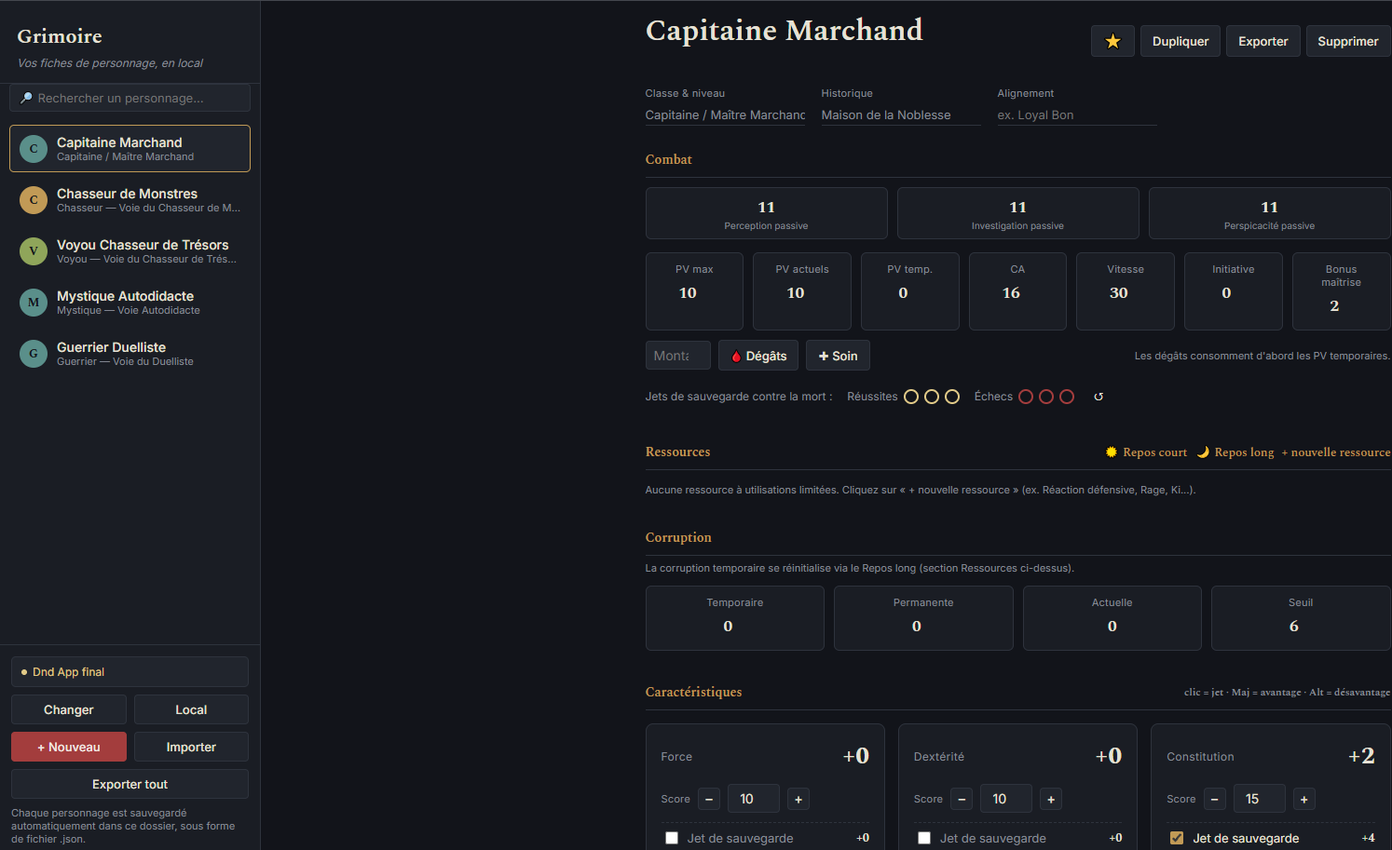
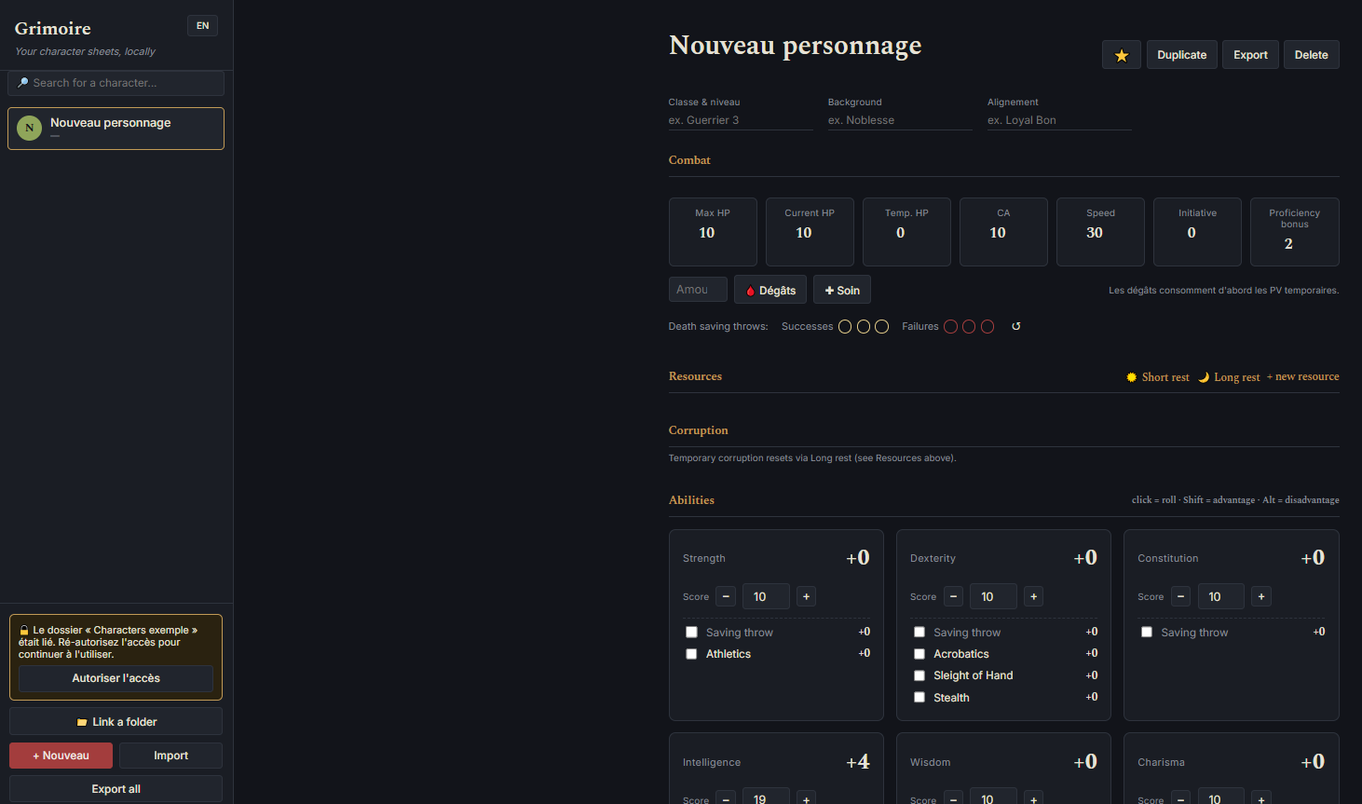
en/fr

diff --git a/Grimoire.html b/Grimoire.html
@@ -50,8 +50,10 @@
   #sidebar{ width:280px; flex:none; background:var(--surface); border-right:1px solid var(--border);
     display:flex; flex-direction:column; height:100vh; position:sticky; top:0; }
   #sidebar-header{ padding:22px 18px 14px; border-bottom:1px solid var(--border); }
+  .sidebar-title-row{ display:flex; align-items:flex-start; justify-content:space-between; gap:10px; }
   #sidebar-header h1{ margin:0; font-size:22px; font-weight:600; }
   #sidebar-header p{ margin:4px 0 0; font-size:12px; color:var(--text-muted); font-style:italic; }
+  #lang-toggle{ flex:none; padding:5px 8px; font-size:11px; min-width:36px; }
   #char-list{ flex:1; overflow-y:auto; padding:10px; }
   #char-search{ margin:0 10px 4px; width:calc(100% - 20px); font-size:13px; }
   .char-item{ padding:9px 10px; border-radius:5px; margin-bottom:4px; cursor:pointer; border:1px solid transparent;
@@ -232,8 +234,7 @@
 
 <div id="sidebar">
   <div id="sidebar-header">
-    <h1>Grimoire</h1>
-    <p>Vos fiches de personnage, en local</p>
+    <div class="sidebar-title-row"><div><h1>Grimoire</h1><p>Vos fiches de personnage, en local</p></div><button id="lang-toggle" type="button" title="Changer de langue">EN</button></div>
   </div>
   <input id="char-search" type="text" placeholder="🔎 Rechercher un personnage...">
   <div id="char-list"></div>
@@ -273,6 +274,204 @@ const SKILLS = {
 const EMOJIS = ['⚔','🛡','🏹','🗡','🔥','❄','⚡','☠','💀','🐉','🧙','🧝','🧛','🧟','🎯','💰','📜','🧪','🔮','✨','🩸','👁','🤝','🏰','👑','🎭','🐍','🦴','🌙','⭐','🕯','🗝'];
 
 /* ---------------------------------------------------------------------
+   Internationalisation — FR / EN
+   Le changement de langue ne modifie jamais les données des personnages.
+--------------------------------------------------------------------- */
+const LANG_KEY = 'grimoire-language';
+let currentLanguage = localStorage.getItem(LANG_KEY) || 'fr';
+if (currentLanguage !== 'fr' && currentLanguage !== 'en') currentLanguage = 'fr';
+
+const I18N = {
+  fr: {
+    languageButton:'EN', languageTitle:'Passer en anglais',
+    subtitle:'Vos fiches de personnage, en local', search:'🔎 Rechercher un personnage...',
+    empty:'Aucun personnage.', emptyFolder:'Aucun personnage dans ce dossier.', noResults:q => `Aucun résultat pour « ${q} ».`,
+    clickNew:'Cliquez sur « + Nouveau ».', noSelection:'Aucune fiche sélectionnée', noSelectionText:'Créez un nouveau personnage, importez un JSON, ou liez le dossier où se trouvent déjà vos fiches.',
+    newCharacter:'Nouveau personnage', duplicate:'Dupliquer', export:'Exporter', delete:'Supprimer', import:'Importer', exportAll:'Exporter tout',
+    change:'Changer', local:'Local', linkFolder:'📁 Lier un dossier', authorize:'Autoriser l’accès', chooseFolder:'Choisir ce dossier', noThanks:'Non merci',
+    folderHint:'Chaque personnage est sauvegardé automatiquement dans ce dossier, sous forme de fichier .json.',
+    localHint:'Tout reste dans ce navigateur. Exportez en JSON pour garder une copie, ou liez un dossier (Chrome/Edge) pour une sauvegarde automatique sur disque.',
+    onboardTitle:'📁 Faire de Grimoire un dossier autonome ?',
+    onboardText:'Choisissez le dossier où se trouve ce fichier Grimoire.html : l’app y lira et y sauvegardera vos personnages toute seule, à chaque ouverture.',
+    combat:'Combat', maxHp:'PV max', currentHp:'PV actuels', tempHp:'PV temp.', ac:'CA', speed:'Vitesse', initiative:'Initiative', proficiency:'Bonus maîtrise', amount:'Montant', damage:'Dégâts', heal:'Soin',
+    damageHint:'Les dégâts consomment d’abord les PV temporaires.', deathSaves:'Jets de sauvegarde contre la mort :', successes:'Réussites', failures:'Échecs', reset:'Réinitialiser',
+    resources:'Ressources', shortRest:'☀ Repos court', longRest:'🌙 Repos long', newResource:'+ nouvelle ressource', shortRestTitle:"Réinitialise les ressources en 'Repos court'", longRestTitle:"Réinitialise la corruption temporaire et les ressources en 'Repos long'",
+    corruption:'Corruption', corruptionHint:'La corruption temporaire se réinitialise via le Repos long (section Ressources ci-dessus).', temporary:'Temporaire', permanent:'Permanente', current:'Actuelle', threshold:'Seuil',
+    abilities:'Caractéristiques', abilitiesHint:'clic = jet · Maj = avantage · Alt = désavantage', score:'Score', savingThrow:'Jet de sauvegarde',
+    weapons:'Armes', addWeapon:'+ ajouter une arme', name:'Nom', toHit:'Au toucher', damageBonus:'+ Dégâts', roll:'Jet',
+    equipment:'Équipement', equipmentPlaceholder:'Une chose par ligne...', otherProficiencies:'Autres maîtrises', otherPlaceholder:'Armures, armes, outils, langues, jets de sauvegarde, compétences...',
+    spellcasting:'🔮 Incantation', spellcaster:'Ce personnage lance des sorts', spellcastingStat:'Caractéristique', saveDc:'DD de sauvegarde', spellAttack:'Attaque de sort', corruptionCalc:'Seuil corruption (calc.)', applyThreshold:'↳ Appliquer ce seuil à la Corruption', spellHint:'Cochez la case ci-dessus pour afficher les statistiques d’incantation et la liste de sorts.',
+    spells:'Sorts', newSpell:'+ nouveau sort', noSpells:'Aucun sort. Cliquez sur « + nouveau sort ».', spellName:'Nom du sort', level:'Niveau', castingTime:"Temps d'incantation", range:'Portée', duration:'Durée', cost:'Coût (Corruption)', damageExample:'Dégâts (ex. 1d4) — laisser vide si aucun', spellDescription:'Description, effets, mise à l’échelle par niveau...',
+    features:'Capacités', newFeature:'+ nouvelle capacité', noFeatures:'Aucune capacité. Cliquez sur « + nouvelle capacité ».', featureName:'Nom de la capacité', category:'Catégorie', description:'Description...',
+    notes:'Notes', notesPlaceholder:'Tout ce qui ne rentre pas ailleurs...',
+    noWeapons:'Aucune arme. Cliquez sur « + ajouter une arme ».', noResources:'Aucune ressource à utilisations limitées. Cliquez sur « + nouvelle ressource » (ex. Réaction défensive, Rage, Ki...).',
+    resourceName:'Nom (ex. Réaction défensive)', use:'Utiliser', recover:'Récupérer', setMax:'Réglez un maximum ci-dessous pour afficher les jetons.', max:'Max', recharge:'Recharge (ex. Repos long)', formula:'Formule (ex. 2d4 + 2)', rollFormula:'Lancer la formule',
+    recentRolls:'Jets récents', clear:'Effacer', noDamageFormula:'aucune formule de dégâts', invalidFormula:'formule invalide',
+    modified:'Modifié — sauvegarde en cours…', savedDisk:'Enregistré sur disque à', saved:'Enregistré à',
+    deleteConfirm:name => `Supprimer « ${name} » ? Cette action est irréversible.`, invalidJson:"Impossible de lire ce fichier : ce n'est pas un JSON valide de Grimoire.", folderUnsupported:'Lier un dossier fonctionne dans Chrome ou Edge. Utilisez Importer / Exporter en attendant.',
+    ability:{str:'Force',dex:'Dextérité',con:'Constitution',int:'Intelligence',wis:'Sagesse',cha:'Charisme'},
+    skill:{athletics:'Athlétisme',acrobatics:'Acrobaties',sleightOfHand:'Escamotage',stealth:'Discrétion',arcana:'Arcanes',history:'Histoire',investigation:'Investigation',nature:'Nature',religion:'Religion',animalHandling:'Dressage',insight:'Perspicacité',medicine:'Médecine',perception:'Perception',survival:'Survie',deception:'Tromperie',intimidation:'Intimidation',performance:'Représentation',persuasion:'Persuasion'}
+  },
+  en: {
+    languageButton:'FR', languageTitle:'Passer en français',
+    subtitle:'Your character sheets, locally', search:'🔎 Search for a character...',
+    empty:'No characters.', emptyFolder:'No characters in this folder.', noResults:q => `No results for “${q}”.`,
+    clickNew:'Click « + New ».', noSelection:'No character selected', noSelectionText:'Create a new character, import a JSON, or link the folder where your existing sheets are stored.',
+    newCharacter:'New character', duplicate:'Duplicate', export:'Export', delete:'Delete', import:'Import', exportAll:'Export all',
+    change:'Change', local:'Local', linkFolder:'📁 Link a folder', authorize:'Allow access', chooseFolder:'Choose this folder', noThanks:'No thanks',
+    folderHint:'Each character is automatically saved in this folder as a .json file.',
+    localHint:'Everything stays in this browser. Export JSON to keep a copy, or link a folder (Chrome/Edge) for automatic disk backups.',
+    onboardTitle:'📁 Make Grimoire a standalone folder?',
+    onboardText:'Choose the folder containing this Grimoire.html file: the app will read and save your characters there automatically each time it opens.',
+    combat:'Combat', maxHp:'Max HP', currentHp:'Current HP', tempHp:'Temp. HP', ac:'AC', speed:'Speed', initiative:'Initiative', proficiency:'Proficiency bonus', amount:'Amount', damage:'Damage', heal:'Heal',
+    damageHint:'Damage is applied to temporary HP first.', deathSaves:'Death saving throws:', successes:'Successes', failures:'Failures', reset:'Reset',
+    resources:'Resources', shortRest:'☀ Short rest', longRest:'🌙 Long rest', newResource:'+ new resource', shortRestTitle:"Resets resources on 'Short rest'", longRestTitle:"Resets temporary corruption and resources on 'Long rest'",
+    corruption:'Corruption', corruptionHint:'Temporary corruption resets via Long rest (see Resources above).', temporary:'Temporary', permanent:'Permanent', current:'Current', threshold:'Threshold',
+    abilities:'Abilities', abilitiesHint:'click = roll · Shift = advantage · Alt = disadvantage', score:'Score', savingThrow:'Saving throw',
+    weapons:'Weapons', addWeapon:'+ add weapon', name:'Name', toHit:'To hit', damageBonus:'+ Damage', roll:'Roll',
+    equipment:'Equipment', equipmentPlaceholder:'One item per line...', otherProficiencies:'Other proficiencies', otherPlaceholder:'Armor, weapons, tools, languages, saving throws, skills...',
+    spellcasting:'🔮 Spellcasting', spellcaster:'This character casts spells', spellcastingStat:'Ability', saveDc:'Save DC', spellAttack:'Spell attack', corruptionCalc:'Corruption threshold (calc.)', applyThreshold:'↳ Apply this threshold to Corruption', spellHint:'Check the box above to display spellcasting stats and the spell list.',
+    spells:'Spells', newSpell:'+ new spell', noSpells:'No spells. Click « + new spell ».', spellName:'Spell name', level:'Level', castingTime:'Casting time', range:'Range', duration:'Duration', cost:'Cost (Corruption)', damageExample:'Damage (e.g. 1d4) — leave blank if none', spellDescription:'Description, effects, scaling by level...',
+    features:'Features', newFeature:'+ new feature', noFeatures:'No features. Click « + new feature ».', featureName:'Feature name', category:'Category', description:'Description...',
+    notes:'Notes', notesPlaceholder:'Anything that does not fit elsewhere...',
+    noWeapons:'No weapons. Click « + add weapon ».', noResources:'No limited-use resources. Click « + new resource » (e.g. Defensive reaction, Rage, Ki...).',
+    resourceName:'Name (e.g. Defensive reaction)', use:'Use', recover:'Recover', setMax:'Set a maximum below to display the tokens.', max:'Max', recharge:'Recharge (e.g. Long rest)', formula:'Formula (e.g. 2d4 + 2)', rollFormula:'Roll formula',
+    recentRolls:'Recent rolls', clear:'Clear', noDamageFormula:'no damage formula', invalidFormula:'invalid formula',
+    modified:'Modified — saving…', savedDisk:'Saved to disk at', saved:'Saved at',
+    deleteConfirm:name => `Delete “${name}”? This action cannot be undone.`, invalidJson:"Unable to read this file: it is not a valid Grimoire JSON file.", folderUnsupported:'Folder linking works in Chrome or Edge. Use Import / Export for now.',
+    ability:{str:'Strength',dex:'Dexterity',con:'Constitution',int:'Intelligence',wis:'Wisdom',cha:'Charisma'},
+    skill:{athletics:'Athletics',acrobatics:'Acrobatics',sleightOfHand:'Sleight of Hand',stealth:'Stealth',arcana:'Arcana',history:'History',investigation:'Investigation',nature:'Nature',religion:'Religion',animalHandling:'Animal Handling',insight:'Insight',medicine:'Medicine',perception:'Perception',survival:'Survival',deception:'Deception',intimidation:'Intimidation',performance:'Performance',persuasion:'Persuasion'}
+  }
+};
+
+function ui(key, ...args){
+  const value = I18N[currentLanguage][key];
+  return typeof value === 'function' ? value(...args) : (value ?? key);
+}
+function tAbility(key){ return I18N[currentLanguage].ability[key] || ABILITY_LABELS[key]; }
+function tSkill(key){ return I18N[currentLanguage].skill[key] || key; }
+function setLanguage(lang){
+  if (lang !== 'fr' && lang !== 'en') return;
+  // Force any focused field to commit its latest value before re-rendering.
+  if (document.activeElement && typeof document.activeElement.blur === 'function') document.activeElement.blur();
+  flushPendingSaves();
+  currentLanguage = lang;
+  localStorage.setItem(LANG_KEY, currentLanguage);
+  document.documentElement.lang = currentLanguage;
+  renderAll();
+  updateLanguageButton();
+}
+function toggleLanguage(){ setLanguage(currentLanguage === 'fr' ? 'en' : 'fr'); }
+function updateLanguageButton(){
+  const btn = document.getElementById('lang-toggle');
+  if (!btn) return;
+  btn.textContent = ui('languageButton');
+  btn.title = ui('languageTitle');
+}
+
+// Translate rendered UI without touching user-entered character data.
+const UI_TEXT_PAIRS = [
+  ['Vos fiches de personnage, en local','Your character sheets, locally'],['🔎 Rechercher un personnage...','🔎 Search for a character...'],
+  ['Aucune fiche sélectionnée','No character selected'],['Créez un nouveau personnage, importez un JSON, ou liez le dossier où se trouvent déjà vos fiches.','Create a new character, import a JSON, or link the folder where your existing sheets are stored.'],
+  ['Dupliquer','Duplicate'],['Exporter','Export'],['Supprimer','Delete'],['Importer','Import'],['Exporter tout','Export all'],['Changer','Change'],['Local','Local'],['📁 Lier un dossier','📁 Link a folder'],['Autoriser l’accès','Allow access'],['Choisir ce dossier','Choose this folder'],['Non merci','No thanks'],
+  ['Chaque personnage est sauvegardé automatiquement dans ce dossier, sous forme de fichier .json.','Each character is automatically saved in this folder as a .json file.'],['Tout reste dans ce navigateur. Exportez en JSON pour garder une copie, ou liez un dossier (Chrome/Edge) pour une sauvegarde automatique sur disque.','Everything stays in this browser. Export JSON to keep a copy, or link a folder (Chrome/Edge) for automatic disk backups.'],
+  ['📁 Faire de Grimoire un dossier autonome ?','📁 Make Grimoire a standalone folder?'],['Choisissez le dossier où se trouve ce fichier Grimoire.html : l\'app y lira et y sauvegardera vos personnages toute seule, à chaque ouverture.','Choose the folder containing this Grimoire.html file: the app will read and save your characters there automatically each time it opens.'],
+  ['Combat','Combat'],['PV max','Max HP'],['PV actuels','Current HP'],['PV temp.','Temp. HP'],['Vitesse','Speed'],['Bonus maîtrise','Proficiency bonus'],['Montant','Amount'],['Dégâts','Damage'],['Soin','Heal'],['Les dégâts consomment d’abord les PV temporaires.','Damage is applied to temporary HP first.'],['Jets de sauvegarde contre la mort :','Death saving throws:'],['Réussites','Successes'],['Échecs','Failures'],['Réinitialiser','Reset'],
+  ['Ressources','Resources'],['☀ Repos court','☀ Short rest'],['🌙 Repos long','🌙 Long rest'],['+ nouvelle ressource','+ new resource'],['Corruption','Corruption'],['La corruption temporaire se réinitialise via le Repos long (section Ressources ci-dessus).','Temporary corruption resets via Long rest (see Resources above).'],['Temporaire','Temporary'],['Permanente','Permanent'],['Actuelle','Current'],['Seuil','Threshold'],
+  ['Caractéristiques','Abilities'],['clic = jet · Maj = avantage · Alt = désavantage','click = roll · Shift = advantage · Alt = disadvantage'],['Score','Score'],['Jet de sauvegarde','Saving throw'],
+  ['Armes','Weapons'],['+ ajouter une arme','+ add weapon'],['Nom','Name'],['Au toucher','To hit'],['+ Dégâts','+ Damage'],['Jet','Roll'],['Équipement','Equipment'],['Une chose par ligne...','One item per line...'],['Autres maîtrises','Other proficiencies'],['Armures, armes, outils, langues, jets de sauvegarde, compétences...','Armor, weapons, tools, languages, saving throws, skills...'],
+  ['🔮 Incantation','🔮 Spellcasting'],['Ce personnage lance des sorts','This character casts spells'],['Caractéristique','Ability'],['DD de sauvegarde','Save DC'],['Attaque de sort','Spell attack'],['Seuil corruption (calc.)','Corruption threshold (calc.)'],['↳ Appliquer ce seuil à la Corruption','↳ Apply this threshold to Corruption'],['Cochez la case ci-dessus pour afficher les statistiques d’incantation et la liste de sorts.','Check the box above to display spellcasting stats and the spell list.'],
+  ['Sorts','Spells'],['+ nouveau sort','+ new spell'],['Aucun sort. Cliquez sur « + nouveau sort ».','No spells. Click « + new spell ».'],['Nom du sort','Spell name'],['Niveau','Level'],["Temps d'incantation",'Casting time'],['Portée','Range'],['Durée','Duration'],['Coût (Corruption)','Cost (Corruption)'],['Description, effets, mise à l’échelle par niveau...','Description, effects, scaling by level...'],
+  ['Capacités','Features'],['+ nouvelle capacité','+ new feature'],['Aucune capacité. Cliquez sur « + nouvelle capacité ».','No features. Click « + new feature ».'],['Nom de la capacité','Feature name'],['Catégorie','Category'],['Description...','Description...'],['Notes','Notes'],['Tout ce qui ne rentre pas ailleurs...','Anything that does not fit elsewhere...'],
+  ['Jets récents','Recent rolls'],['Effacer','Clear'],['Réglez un maximum ci-dessous pour afficher les jetons.','Set a maximum below to display the tokens.'],['Max','Max'],['Utiliser','Use'],['Récupérer','Recover'],['Lancer la formule','Roll formula'],['Aucune arme. Cliquez sur « + ajouter une arme ».','No weapons. Click « + add weapon ».'],['Aucune ressource à utilisations limitées. Cliquez sur « + nouvelle ressource » (ex. Réaction défensive, Rage, Ki...).','No limited-use resources. Click « + new resource » (e.g. Defensive reaction, Rage, Ki...).'],
+  ['Nom (ex. Réaction défensive)','Name (e.g. Defensive reaction)'],['Recharge (ex. Repos long)','Recharge (e.g. Long rest)'],['Formule (ex. 2d4 + 2)','Formula (e.g. 2d4 + 2)'],['Dégâts (ex. 1d4) — laisser vide si aucun','Damage (e.g. 1d4) — leave blank if none'],
+  ['Force','Strength'],['Dextérité','Dexterity'],['Constitution','Constitution'],['Intelligence','Intelligence'],['Sagesse','Wisdom'],['Charisme','Charisma'],['Athlétisme','Athletics'],['Acrobaties','Acrobatics'],['Escamotage','Sleight of Hand'],['Discrétion','Stealth'],['Arcanes','Arcana'],['Histoire','History'],['Investigation','Investigation'],['Nature','Nature'],['Religion','Religion'],['Dressage','Animal Handling'],['Perspicacité','Insight'],['Médecine','Medicine'],['Perception','Perception'],['Survie','Survival'],['Tromperie','Deception'],['Intimidation','Intimidation'],['Représentation','Performance'],['Persuasion','Persuasion'],
+  ['Score','Score'],['Classe','Class'],['Sous-classe','Subclass'],['Espèce','Species'],['Historique','Background'],['Don','Feat'],['Équipement magique','Magic item'],['Autre','Other'],
+  ['Inspiration','Inspiration'],['Réinitialise les ressources en \'Repos court\'','Resets resources on \'Short rest\''],['Réinitialise la corruption temporaire et les ressources en \'Repos long\'','Resets temporary corruption and resources on \'Long rest\'']
+];
+
+function translatePage(){
+  const toEnglish = currentLanguage === 'en';
+  const pairs = new Map(toEnglish ? UI_TEXT_PAIRS : UI_TEXT_PAIRS.map(([fr,en]) => [en,fr]));
+  const walker = document.createTreeWalker(document.body, NodeFilter.SHOW_TEXT);
+  const nodes = [];
+  while (walker.nextNode()) nodes.push(walker.currentNode);
+  nodes.forEach(node => {
+    const parent = node.parentElement;
+    if (!parent || ['SCRIPT','STYLE','TEXTAREA','INPUT'].includes(parent.tagName)) return;
+    const raw = node.nodeValue;
+    const trimmed = raw.trim();
+    if (!trimmed) return;
+    if (pairs.has(trimmed)) node.nodeValue = raw.replace(trimmed, pairs.get(trimmed));
+    else if (toEnglish) {
+      node.nodeValue = raw
+        .replace(/Aucun personnage dans ce dossier\./g,'No characters in this folder.')
+        .replace(/Aucun personnage\./g,'No characters.')
+        .replace(/Cliquez sur « \+ Nouveau »\./g,'Click « + New ».')
+        .replace(/Aucun résultat pour « (.*?) »\./g,'No results for “$1”.')
+        .replace(/Modifié — sauvegarde en cours…/g,'Modified — saving…')
+        .replace(/Enregistré sur disque à/g,'Saved to disk at')
+        .replace(/Enregistré à/g,'Saved at')
+        .replace(/Perception passive/g,'Passive Perception')
+        .replace(/Investigation passive/g,'Passive Investigation')
+        .replace(/Perspicacité passive/g,'Passive Insight')
+        .replace(/ — jet/g,' — check').replace(/ — sauvegarde/g,' — save').replace(/ — attaque/g,' — attack').replace(/ — dégâts/g,' — damage')
+        .replace(/aucune formule de dégâts/g,'no damage formula').replace(/formule invalide/g,'invalid formula');
+    } else {
+      node.nodeValue = raw
+        .replace(/No characters in this folder\./g,'Aucun personnage dans ce dossier.')
+        .replace(/No characters\./g,'Aucun personnage.')
+        .replace(/Click « \+ New »\./g,'Cliquez sur « + Nouveau ».')
+        .replace(/No results for “(.*?)”\./g,'Aucun résultat pour « $1 ».')
+        .replace(/Modified — saving…/g,'Modifié — sauvegarde en cours…')
+        .replace(/Saved to disk at/g,'Enregistré sur disque à')
+        .replace(/Saved at/g,'Enregistré à')
+        .replace(/Passive Perception/g,'Perception passive').replace(/Passive Investigation/g,'Investigation passive').replace(/Passive Insight/g,'Perspicacité passive')
+        .replace(/ — check/g,' — jet').replace(/ — save/g,' — sauvegarde').replace(/ — attack/g,' — attaque').replace(/ — damage/g,' — dégâts')
+        .replace(/no damage formula/g,'aucune formule de dégâts').replace(/invalid formula/g,'formule invalide');
+    }
+  });
+
+  document.querySelectorAll('input[placeholder], textarea[placeholder]').forEach(el => {
+    const frToEn = new Map(UI_TEXT_PAIRS);
+    const enToFr = new Map(UI_TEXT_PAIRS.map(([fr,en]) => [en,fr]));
+    const map = toEnglish ? frToEn : enToFr;
+    if (map.has(el.placeholder)) el.placeholder = map.get(el.placeholder);
+  });
+  document.querySelectorAll('[title]').forEach(el => {
+    const frToEn = new Map(UI_TEXT_PAIRS); const enToFr = new Map(UI_TEXT_PAIRS.map(([fr,en]) => [en,fr]));
+    const map = toEnglish ? frToEn : enToFr;
+    if (map.has(el.title)) el.title = map.get(el.title);
+  });
+  document.querySelectorAll('option').forEach(el => {
+    const frToEn = new Map(UI_TEXT_PAIRS); const enToFr = new Map(UI_TEXT_PAIRS.map(([fr,en]) => [en,fr]));
+    const map = toEnglish ? frToEn : enToFr;
+    if (map.has(el.textContent.trim())) el.textContent = map.get(el.textContent.trim());
+  });
+}
+
+let translationObserver;
+function installTranslationObserver(){
+  if (translationObserver) translationObserver.disconnect();
+  let translating = false;
+  translationObserver = new MutationObserver(() => {
+    if (translating) return;
+    translating = true;
+    // Déconnecter l'observer pendant la traduction évite qu'il se
+    // déclenche lui-même en boucle sur les changements de texte.
+    translationObserver.disconnect();
+    try {
+      translatePage();
+    } finally {
+      translating = false;
+      translationObserver.observe(document.body, { childList:true, subtree:true, characterData:true });
+    }
+  });
+  translationObserver.observe(document.body, { childList:true, subtree:true, characterData:true });
+}
+
+
+/* ---------------------------------------------------------------------
    État
 --------------------------------------------------------------------- */
 const STORAGE_KEY = 'grimoire-characters';
@@ -302,7 +501,7 @@ function defaultCharacter(name){
   }
   return {
     id: uid(),
-    name: name || 'Nouveau personnage',
+    name: name || ui('newCharacter'),
     classLevel: '', background: '', alignment: '',
     hp: { max:10, current:10, temp:0 }, ac:10, speed:30, initiative:0,
     inspiration: false,
@@ -354,7 +553,7 @@ async function tryReconnectFolder(){
 
 async function pickFolder(){
   if (!supportsFolderLink()){
-    alert("Lier un dossier fonctionne dans Chrome ou Edge. Utilisez Importer / Exporter en attendant.");
+    alert(ui('folderUnsupported'));
     return;
   }
   try{
@@ -433,7 +632,7 @@ async function deleteCharFromDisk(ch){
 const AUTOSAVE_DELAY = 800; // ms d'inactivité avant d'écrire sur disque
 
 function nowTime(){
-  return new Date().toLocaleTimeString('fr-FR', { hour:'2-digit', minute:'2-digit', second:'2-digit' });
+  return new Date().toLocaleTimeString(currentLanguage === 'fr' ? 'fr-FR' : 'en-CA', { hour:'2-digit', minute:'2-digit', second:'2-digit' });
 }
 function setSaveStatus(text, pending){
   const el = document.getElementById('save-status');
@@ -446,18 +645,18 @@ function saveState(){
   const c = activeChar();
   if (!c) return;
   if (state.mode === 'folder'){
-    setSaveStatus('Modifié — sauvegarde en cours…', true);
+    setSaveStatus(ui('modified'), true);
     clearTimeout(writeTimers[c.id]);
     writeTimers[c.id] = setTimeout(async () => {
       await writeCharToDisk(c);
-      setSaveStatus('Enregistré sur disque à ' + nowTime());
+      setSaveStatus(ui('savedDisk') + ' ' + nowTime());
     }, AUTOSAVE_DELAY);
   } else {
-    setSaveStatus('Modifié — sauvegarde en cours…', true);
+    setSaveStatus(ui('modified'), true);
     clearTimeout(writeTimers[c.id]);
     writeTimers[c.id] = setTimeout(() => {
       persistLocal();
-      setSaveStatus('Enregistré à ' + nowTime());
+      setSaveStatus(ui('saved') + ' ' + nowTime());
     }, AUTOSAVE_DELAY);
   }
 }
@@ -465,7 +664,7 @@ function saveNow(ch){
   clearTimeout(writeTimers[ch.id]);
   if (state.mode === 'folder') writeCharToDisk(ch);
   else persistLocal();
-  if (ch.id === state.activeId) setSaveStatus('Enregistré à ' + nowTime());
+  if (ch.id === state.activeId) setSaveStatus(ui('saved') + ' ' + nowTime());
 }
 function flushPendingSaves(){
   Object.keys(writeTimers).forEach(id => {
@@ -521,7 +720,7 @@ function rollD20(label, bonus, mode){
   const d2 = mode !== 'normal' ? rand20() : null;
   const picked = d2 === null ? d1 : (mode === 'adv' ? Math.max(d1,d2) : Math.min(d1,d2));
   const total = picked + bonus;
-  const modeTxt = mode === 'adv' ? ' (avantage)' : mode === 'dis' ? ' (désavantage)' : '';
+  const modeTxt = mode === 'adv' ? ` (${currentLanguage === 'fr' ? 'avantage' : 'advantage'})` : mode === 'dis' ? ` (${currentLanguage === 'fr' ? 'désavantage' : 'disadvantage'})` : '';
   const detail = d2 === null ? `d20(${d1}) ${fmt(bonus)}` : `d20(${d1}, ${d2} → ${picked}) ${fmt(bonus)}`;
   addRollEntry(label + modeTxt, detail, total, picked === 20 ? 'crit' : picked === 1 ? 'fumble' : '');
 }
@@ -1006,30 +1205,30 @@ function handleRoll(btn, e){
   const mode = e.shiftKey ? 'adv' : (e.altKey || e.ctrlKey || e.metaKey) ? 'dis' : 'normal';
   if (type === 'ability'){
     const key = btn.dataset.ability;
-    rollD20(`${ABILITY_LABELS[key]} — jet`, mod(c.abilities[key].score), mode);
+    rollD20(`${tAbility(key)} — ${currentLanguage === 'fr' ? 'jet' : 'check'}`, mod(c.abilities[key].score), mode);
   } else if (type === 'save'){
     const key = btn.dataset.ability, a = c.abilities[key];
-    rollD20(`${ABILITY_LABELS[key]} — sauvegarde`, mod(a.score) + (a.save ? c.proficiencyBonus : 0), mode);
+    rollD20(`${tAbility(key)} — ${currentLanguage === 'fr' ? 'sauvegarde' : 'save'}`, mod(a.score) + (a.save ? c.proficiencyBonus : 0), mode);
   } else if (type === 'skill'){
     const key = btn.dataset.ability, skill = btn.dataset.skill, a = c.abilities[key];
     const bonus = mod(a.score) + (a.skills[skill] ? c.proficiencyBonus : 0);
     rollD20(btn.dataset.label, bonus, mode);
   } else if (type === 'attack'){
     const w = c.weapons[Number(btn.dataset.index)];
-    rollD20(`${w.name || 'Arme'} — attaque`, parseInt(w.toHit) || 0, mode);
+    rollD20(`${w.name || (currentLanguage === 'fr' ? 'Arme' : 'Weapon')} — ${currentLanguage === 'fr' ? 'attaque' : 'attack'}`, parseInt(w.toHit) || 0, mode);
   } else if (type === 'damage'){
     const w = c.weapons[Number(btn.dataset.index)];
     const formula = [w.damage, w.damageBonus].filter(Boolean).join('+').replace(/\+\+/g,'+').replace(/\+-/g,'-');
-    rollDamage(`${w.name || 'Arme'} — dégâts`, formula);
+    rollDamage(`${w.name || (currentLanguage === 'fr' ? 'Arme' : 'Weapon')} — ${currentLanguage === 'fr' ? 'dégâts' : 'damage'}`, formula);
   } else if (type === 'spell-attack'){
     const sp = c.spells[Number(btn.dataset.index)];
-    rollD20(`${sp.title || 'Sort'} — attaque`, spellStats(c).atk, mode);
+    rollD20(`${sp.title || (currentLanguage === 'fr' ? 'Sort' : 'Spell')} — ${currentLanguage === 'fr' ? 'attaque' : 'attack'}`, spellStats(c).atk, mode);
   } else if (type === 'spell-damage'){
     const sp = c.spells[Number(btn.dataset.index)];
-    rollDamage(`${sp.title || 'Sort'} — dégâts`, sp.damage);
+    rollDamage(`${sp.title || (currentLanguage === 'fr' ? 'Sort' : 'Spell')} — ${currentLanguage === 'fr' ? 'dégâts' : 'damage'}`, sp.damage);
   } else if (type === 'resource'){
     const r = c.resources[Number(btn.dataset.index)];
-    rollDamage(`${r.name || 'Ressource'}`, r.formula);
+    rollDamage(`${r.name || (currentLanguage === 'fr' ? 'Ressource' : 'Resource')}`, r.formula);
   }
 }
 
@@ -1100,7 +1299,7 @@ document.body.addEventListener('click', e => {
     renderAll();
   }
   else if (action === 'delete-char' && c){
-    if (!confirm(`Supprimer « ${c.name} » ? Cette action est irréversible.`)) return;
+    if (!confirm(ui('deleteConfirm', c.name))) return;
     if (state.mode === 'folder') deleteCharFromDisk(c);
     state.characters = state.characters.filter(x => x.id !== c.id);
     state.activeId = state.characters[0] ? state.characters[0].id : null;
@@ -1207,7 +1406,7 @@ document.body.addEventListener('change', e => {
       if (state.mode === 'local') persistLocal();
       renderAll();
     }catch(err){
-      alert("Impossible de lire ce fichier : ce n'est pas un JSON valide de Grimoire.");
+      alert(ui('invalidJson'));
     }
     e.target.value = '';
   };
@@ -1227,11 +1426,17 @@ function downloadJSON(obj, filename){
    Démarrage
 --------------------------------------------------------------------- */
 document.getElementById('char-search').addEventListener('input', renderSidebar);
+document.getElementById('lang-toggle').addEventListener('click', toggleLanguage);
+document.documentElement.lang = currentLanguage;
+installTranslationObserver();
+updateLanguageButton();
 
 (async function init(){
   loadLocal();
   await tryReconnectFolder();
   renderAll();
+  updateLanguageButton();
+  translatePage();
 })();
 </script>
 </body>
